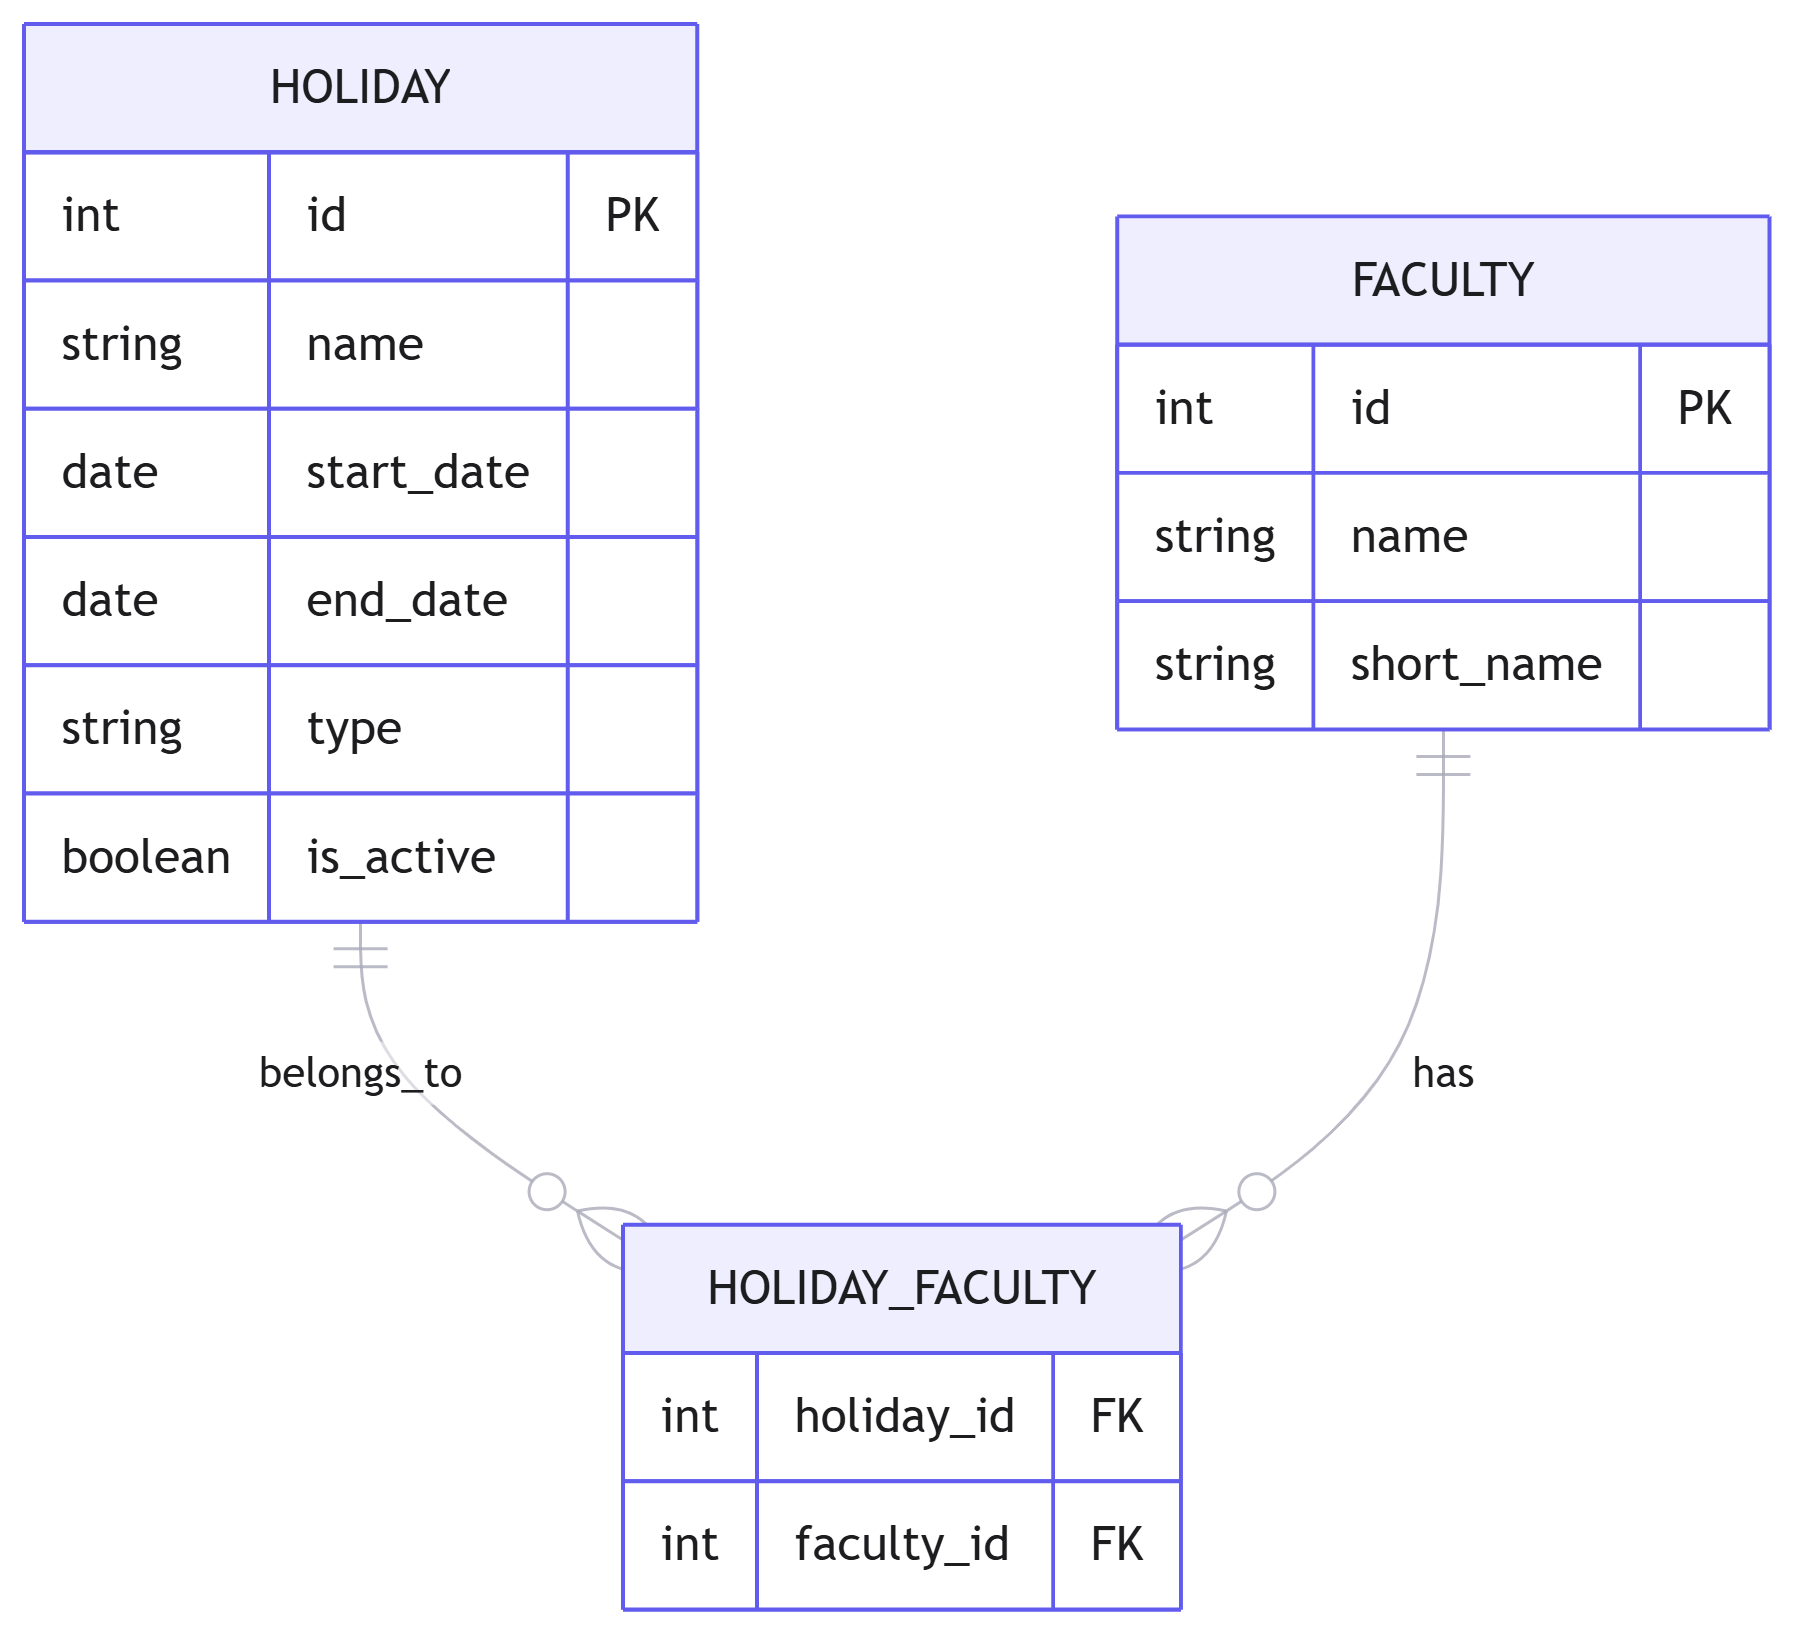
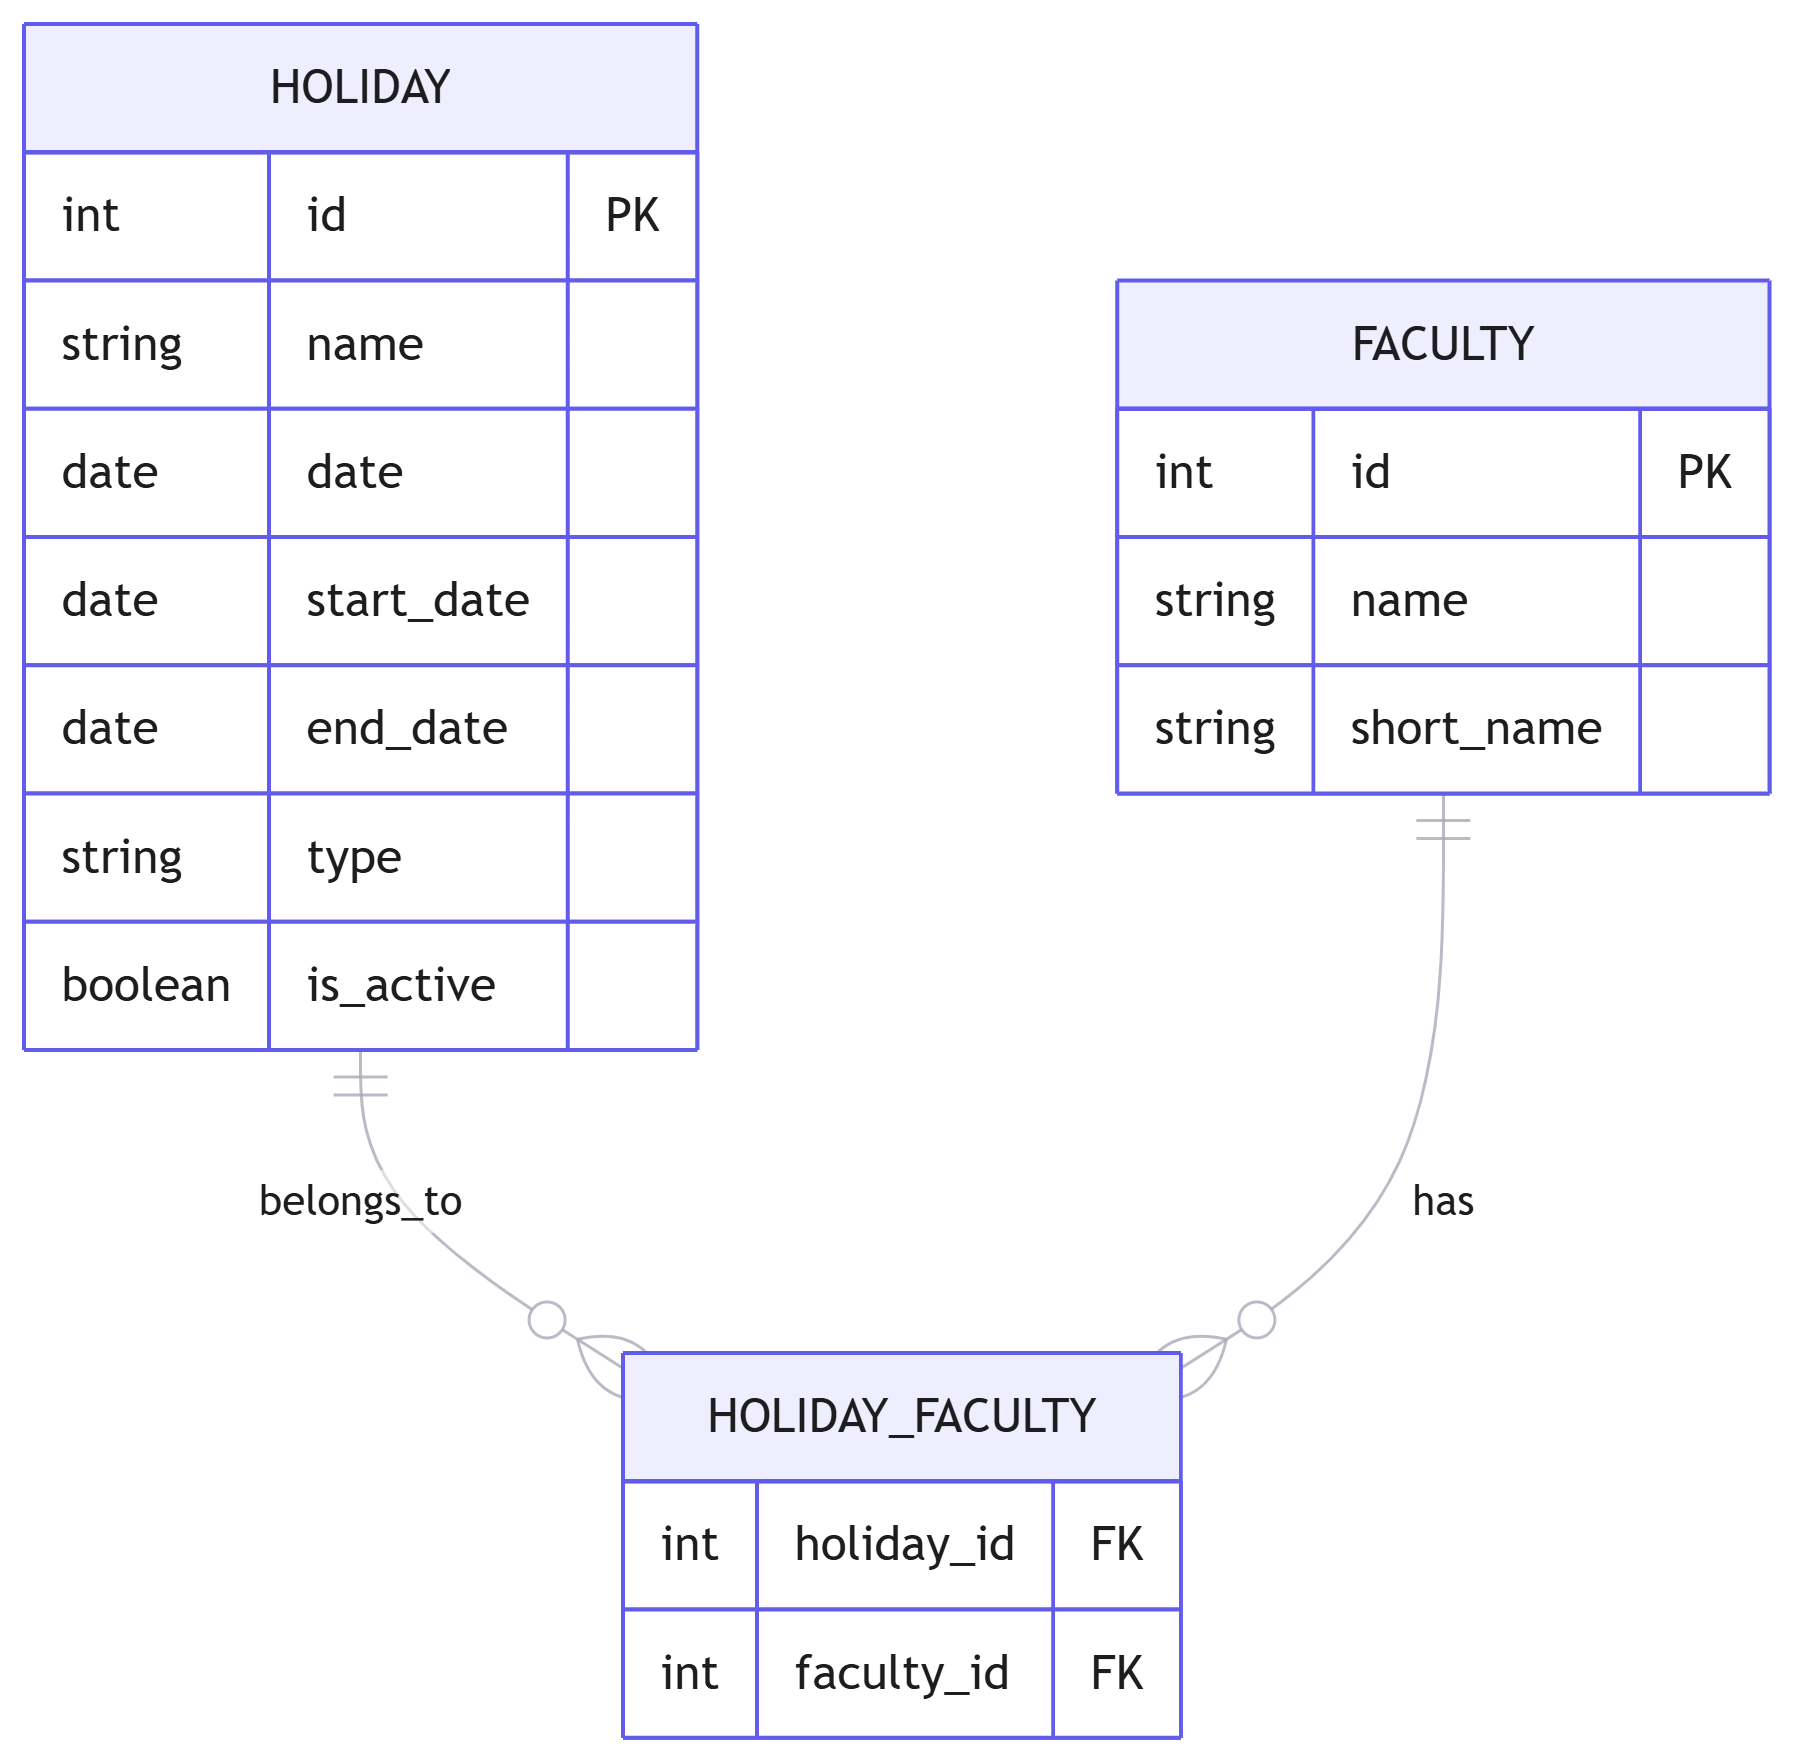
.

diff --git a/S21/models.py b/S21/models.py
@@ -9,9 +9,10 @@ class BaseModel(Model):
 class Holiday(BaseModel):
     id = PrimaryKeyField()
     name = CharField(max_length=100, unique=True, null=False)
-    start_date = DateField(null=False)
-    end_date = DateField(null=False)
-    type = CharField(default='holiday', null=False)
+    date = DateField(null=True)  # Для праздников (конкретный день)
+    start_date = DateField(null=True)  # Для каникул (начало диапазона)
+    end_date = DateField(null=True)  # Для каникул (конец диапазона)
+    type = CharField(choices=['holiday', 'vacation'], default='holiday', null=False)
     is_active = BooleanField(default=True, null=False)
 
     class Meta:

diff --git a/S21/doc.md b/S21/doc.md
@@ -5,11 +5,12 @@
 Информация требуемая для создания Holiday
 
 | Параметр | Обязательность | Тип | Ограничение | Значение по умолчанию |
-|----------|----------------|-----|-------------|-----------------------|
-| name | Обязательно | Строка | Уникальное, не пустое, до 100 символов | — |
-| start_date | Обязательно | Дата | Не пустое, дата начала | — |
-| end_date | Обязательно | Дата | Не пустое, дата окончания >= start_date | — |
-| type | Обязательно | Строка | "holiday" или "vacation" | "holiday" |
+|----------|----------------|-----|-------------|----------------------|
+| name | Да | string | Уникальное, не пустое, до 100 символов | — |
+| date | Нет | date | Конкретная дата (для праздников) | — |
+| start_date | Нет | date | Дата начала (для каникул) | — |
+| end_date | Нет | date | Дата окончания (для каникул) >= start_date | — |
+| type | Да | string | "holiday" или "vacation" | — |
 
 Уникальные комбинации параметров: Отсутствуют. Идентификатор id генерируется автоматически.
 
